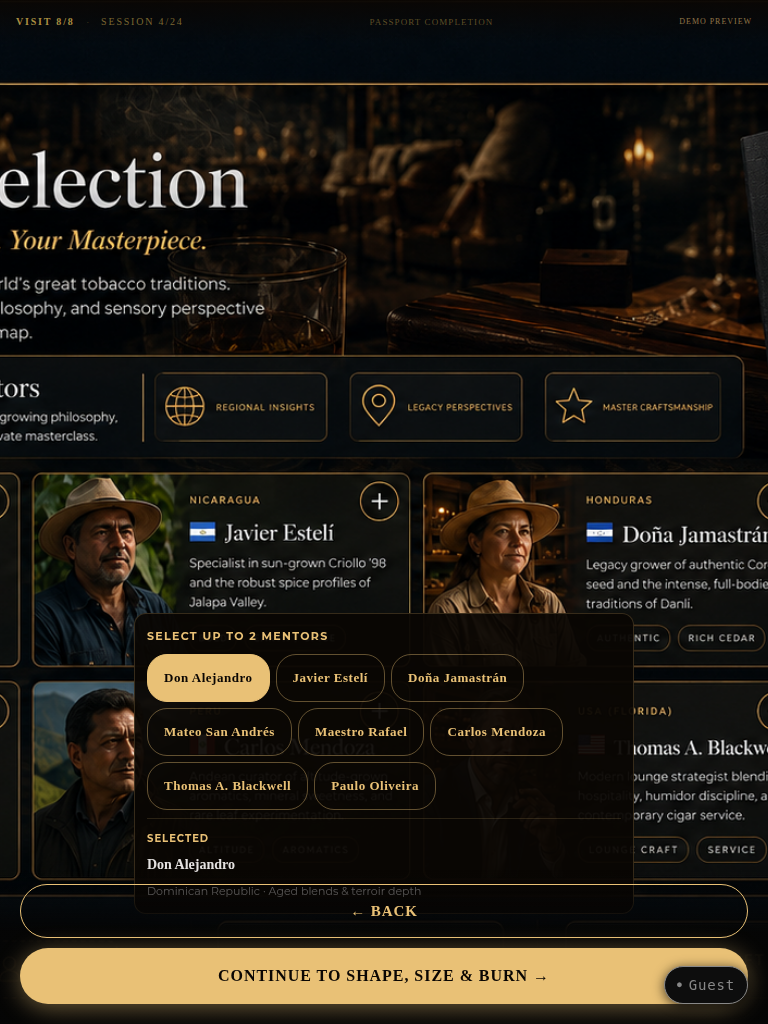
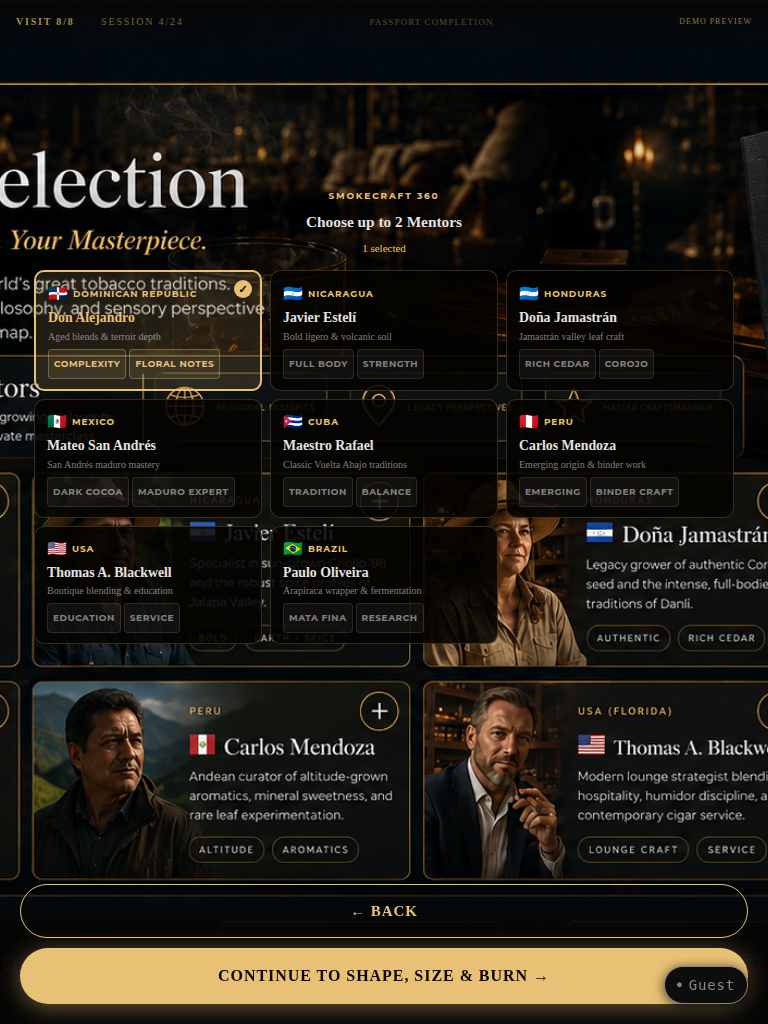
fix(smokecraft): correct remaining Vercel visual defects
Identity: swap IDENTY.png (form baked into artwork causing double-form on
desktop) for clean discover-profile-bg.jpg — single React form, approved
photography background, portrait artwork visible, no duplicate UI

Mentor: replace floating chip-selector box with interactive React card grid
overlaid on MENTOR SELECTION1.png; each card shows flag, origin, name,
expertise, tags; selected card receives gold border + checkmark; disabled
state when 2 already chosen; Continue gated until ≥1 selected

verify-interactions.mjs: 20/20 passed (mentor card aria-pressed preserved)
final-acceptance.mjs: 84/84 passed | 0 failed | build PASS

Proof: public/proof/vercel-visual-verification/ (8 captures, desktop +
handheld for all 4 priority routes)

Claude-Session: https://claude.ai/code/session_01Ju88KjC4Kc2MVgkLLyid8Z

Changed region(s): [[0.0312, 0.25, 0.9688, 0.875], [0.4062, 0.1875, 0.5938, 0.25]]

diff --git a/src/pages/smokecraft/Mentor.jsx b/src/pages/smokecraft/Mentor.jsx
@@ -7,19 +7,20 @@ import SmokeCraftAssetScreen from '../../components/smokecraft/SmokeCraftAssetSc
 import SmokeCraftNavBar from '../../components/smokecraft/SmokeCraftNavBar.jsx'
 import { SC_ASSETS } from '../../constants/smokecraftAssets.js'
 
-const GOLD = '#E9C176'
-const DARK = '#0a0603'
-const DIM  = 'rgba(229,226,225,0.55)'
+const GOLD   = '#E9C176'
+const DARK   = '#0a0603'
+const DIM    = 'rgba(229,226,225,0.55)'
+const BORDER = 'rgba(233,193,118,0.22)'
 
 const MENTORS = [
-  { id: 'alejandro', name: 'Don Alejandro',       origin: 'Dominican Republic', expertise: 'Aged blends & terroir depth' },
-  { id: 'javier',    name: 'Javier Estelí',        origin: 'Nicaragua',          expertise: 'Bold ligero & volcanic soil' },
-  { id: 'jamastrán', name: 'Doña Jamastrán',       origin: 'Honduras',           expertise: 'Jamastrán valley leaf craft' },
-  { id: 'mateo',     name: 'Mateo San Andrés',     origin: 'Mexico',             expertise: 'San Andrés maduro mastery' },
-  { id: 'rafael',    name: 'Maestro Rafael',        origin: 'Cuba',               expertise: 'Classic Vuelta Abajo traditions' },
-  { id: 'carlos',    name: 'Carlos Mendoza',        origin: 'Peru',               expertise: 'Emerging origin & binder work' },
-  { id: 'blackwell', name: 'Thomas A. Blackwell',  origin: 'USA',                expertise: 'Boutique blending & education' },
-  { id: 'paulo',     name: 'Paulo Oliveira',        origin: 'Brazil',             expertise: 'Arapiraca wrapper & fermentation' },
+  { id: 'alejandro', name: 'Don Alejandro',      origin: 'Dominican Republic', flag: '🇩🇴', expertise: 'Aged blends & terroir depth',        tags: ['Complexity', 'Floral Notes'] },
+  { id: 'javier',    name: 'Javier Estelí',       origin: 'Nicaragua',          flag: '🇳🇮', expertise: 'Bold ligero & volcanic soil',         tags: ['Full Body', 'Strength'] },
+  { id: 'jamastrán', name: 'Doña Jamastrán',      origin: 'Honduras',           flag: '🇭🇳', expertise: 'Jamastrán valley leaf craft',         tags: ['Rich Cedar', 'Corojo'] },
+  { id: 'mateo',     name: 'Mateo San Andrés',    origin: 'Mexico',             flag: '🇲🇽', expertise: 'San Andrés maduro mastery',           tags: ['Dark Cocoa', 'Maduro Expert'] },
+  { id: 'rafael',    name: 'Maestro Rafael',       origin: 'Cuba',               flag: '🇨🇺', expertise: 'Classic Vuelta Abajo traditions',    tags: ['Tradition', 'Balance'] },
+  { id: 'carlos',    name: 'Carlos Mendoza',       origin: 'Peru',               flag: '🇵🇪', expertise: 'Emerging origin & binder work',      tags: ['Emerging', 'Binder Craft'] },
+  { id: 'blackwell', name: 'Thomas A. Blackwell', origin: 'USA',                flag: '🇺🇸', expertise: 'Boutique blending & education',      tags: ['Education', 'Service'] },
+  { id: 'paulo',     name: 'Paulo Oliveira',       origin: 'Brazil',             flag: '🇧🇷', expertise: 'Arapiraca wrapper & fermentation',   tags: ['Mata Fina', 'Research'] },
 ]
 
 export default function Mentor() {
@@ -27,7 +28,6 @@ export default function Mentor() {
   const { journey, setMentor } = useSmokeCraftJourney()
   const navigate = useNavigate()
 
-  // Restore from journey state
   const [selected, setSelected] = useState(() => {
     const saved = journey.mentor
     if (!saved) return []
@@ -35,11 +35,9 @@ export default function Mentor() {
     return [saved.id]
   })
 
-  // Persist to journey state whenever selection changes
   useEffect(() => {
     const mentors = MENTORS.filter(m => selected.includes(m.id))
     setMentor(mentors.length ? mentors : null)
-    // Also write primary to GuestSessionContext
     if (mentors.length) setSelectedMentor(mentors[0].id, mentors[0].origin)
   }, [selected, setMentor, setSelectedMentor])
 
@@ -57,8 +55,6 @@ export default function Mentor() {
     navigate('/smokecraft/format')
   }
 
-  const primaryMentor = MENTORS.find(m => selected[0] === m.id)
-
   return (
     <>
       <SmokeCraftAssetScreen
@@ -67,90 +63,131 @@ export default function Mentor() {
         classification="DECORATIVE_BACKGROUND"
       />
 
+      {/* Scrollable card grid — positioned below the upper branding area of the image */}
       <div style={{
         position: 'fixed',
-        bottom: 110, left: 0, right: 0,
+        top: 'clamp(140px, 18vh, 200px)',
+        bottom: 110,
+        left: 0,
+        right: 0,
         zIndex: 400,
-        padding: '0 16px',
+        overflowY: 'auto',
+        WebkitOverflowScrolling: 'touch',
+        padding: '0 12px 8px',
         pointerEvents: 'none',
       }}>
         <div style={{
           pointerEvents: 'auto',
-          background: 'rgba(10,6,3,0.94)',
-          border: '1px solid rgba(233,193,118,0.2)',
-          borderRadius: 12,
-          padding: '10px 12px',
-          maxWidth: 500,
+          maxWidth: 700,
           margin: '0 auto',
         }}>
-          <div style={{ fontSize: 11, color: GOLD, fontWeight: 700, letterSpacing: '0.12em', textTransform: 'uppercase', marginBottom: 6 }}>
-            Select up to 2 Mentors
+          {/* Instruction header */}
+          <div style={{
+            textAlign: 'center',
+            marginBottom: 10,
+          }}>
+            <div style={{ fontSize: 9, fontWeight: 700, color: GOLD, letterSpacing: '0.2em', textTransform: 'uppercase', marginBottom: 2 }}>
+              SmokeCraft 360
+            </div>
+            <div style={{ fontSize: 'clamp(13px,2vw,16px)', fontFamily: 'Georgia, serif', color: '#e5e2e1', fontWeight: 700 }}>
+              Choose up to 2 Mentors
+            </div>
+            {selected.length > 0 && (
+              <div style={{ fontSize: 11, color: GOLD, marginTop: 2, fontFamily: 'Georgia, serif' }}>
+                {selected.length === 1 ? '1 selected' : '2 selected — maximum reached'}
+              </div>
+            )}
           </div>
 
-          <div style={{ display: 'flex', flexWrap: 'wrap', gap: 6, marginBottom: 8 }}>
+          {/* 2-column card grid */}
+          <div style={{
+            display: 'grid',
+            gridTemplateColumns: 'repeat(auto-fill, minmax(clamp(140px,28vw,200px), 1fr))',
+            gap: 8,
+          }}>
             {MENTORS.map(m => {
               const active = selected.includes(m.id)
+              const maxed = selected.length >= 2 && !active
               return (
                 <button
                   key={m.id}
                   type="button"
                   aria-pressed={active}
-                  onClick={() => toggle(m.id)}
+                  onClick={() => !maxed && toggle(m.id)}
                   style={{
-                    background: active ? GOLD : 'transparent',
-                    color: active ? DARK : GOLD,
-                    border: `1px solid ${active ? GOLD : 'rgba(233,193,118,0.4)'}`,
-                    borderRadius: 20,
-                    padding: '11px 16px',
-                    minHeight: 44,
-                    fontSize: 13,
-                    fontWeight: 600,
-                    fontFamily: 'Georgia, serif',
-                    cursor: 'pointer',
-                    letterSpacing: '0.04em',
+                    background: active
+                      ? 'rgba(233,193,118,0.14)'
+                      : 'rgba(5,3,1,0.88)',
+                    border: `${active ? 2 : 1}px solid ${active ? GOLD : BORDER}`,
+                    borderRadius: 10,
+                    padding: '10px 12px',
+                    textAlign: 'left',
+                    cursor: maxed ? 'not-allowed' : 'pointer',
+                    opacity: maxed ? 0.45 : 1,
+                    touchAction: 'manipulation',
+                    position: 'relative',
+                    transition: 'border-color 0.15s, background 0.15s',
+                    minHeight: 80,
                   }}
                 >
-                  {m.name}
+                  {/* Selected indicator */}
+                  {active && (
+                    <div style={{
+                      position: 'absolute',
+                      top: 8, right: 8,
+                      width: 18, height: 18,
+                      borderRadius: '50%',
+                      background: GOLD,
+                      display: 'flex', alignItems: 'center', justifyContent: 'center',
+                      fontSize: 11, color: DARK, fontWeight: 800,
+                    }}>
+                      ✓
+                    </div>
+                  )}
+
+                  <div style={{ display: 'flex', alignItems: 'center', gap: 5, marginBottom: 4 }}>
+                    <span style={{ fontSize: 16 }}>{m.flag}</span>
+                    <span style={{ fontSize: 9, color: GOLD, fontWeight: 700, letterSpacing: '0.1em', textTransform: 'uppercase' }}>
+                      {m.origin}
+                    </span>
+                  </div>
+                  <div style={{
+                    fontSize: 'clamp(12px,1.8vw,14px)',
+                    fontFamily: 'Georgia, serif',
+                    fontWeight: 700,
+                    color: active ? GOLD : '#e5e2e1',
+                    marginBottom: 3,
+                    lineHeight: 1.2,
+                  }}>
+                    {m.name}
+                  </div>
+                  <div style={{ fontSize: 10, color: DIM, fontFamily: 'Georgia, serif', lineHeight: 1.4, marginBottom: 5 }}>
+                    {m.expertise}
+                  </div>
+                  <div style={{ display: 'flex', flexWrap: 'wrap', gap: 3 }}>
+                    {m.tags.map(t => (
+                      <span key={t} style={{
+                        fontSize: 9, fontWeight: 700, letterSpacing: '0.06em',
+                        textTransform: 'uppercase',
+                        color: active ? GOLD : DIM,
+                        background: active ? 'rgba(233,193,118,0.1)' : 'rgba(229,226,225,0.06)',
+                        border: `1px solid ${active ? 'rgba(233,193,118,0.35)' : 'rgba(229,226,225,0.12)'}`,
+                        borderRadius: 4,
+                        padding: '2px 5px',
+                      }}>{t}</span>
+                    ))}
+                  </div>
                 </button>
               )
             })}
           </div>
-
-          {/* Live selection summary */}
-          {primaryMentor && (
-            <div style={{
-              borderTop: '1px solid rgba(233,193,118,0.15)',
-              paddingTop: 8,
-              display: 'flex', flexDirection: 'column', gap: 2,
-            }}>
-              <div style={{ fontSize: 10, color: GOLD, fontWeight: 700, letterSpacing: '0.1em', textTransform: 'uppercase' }}>
-                Selected
-              </div>
-              <div style={{ fontSize: 14, color: '#e5e2e1', fontFamily: 'Georgia, serif', fontWeight: 600 }}>
-                {primaryMentor.name}
-              </div>
-              <div style={{ fontSize: 11, color: DIM }}>{primaryMentor.origin} · {primaryMentor.expertise}</div>
-              {selected.length === 2 && (() => {
-                const m2 = MENTORS.find(m => m.id === selected[1])
-                return m2 ? (
-                  <div style={{ fontSize: 11, color: DIM, marginTop: 2 }}>
-                    + {m2.name} · {m2.origin}
-                  </div>
-                ) : null
-              })()}
-            </div>
-          )}
-          {!primaryMentor && (
-            <div style={{ fontSize: 11, color: DIM, paddingTop: 4 }}>
-              No mentor selected — choose one to continue.
-            </div>
-          )}
         </div>
       </div>
 
       <SmokeCraftNavBar
         primary="Continue to Shape, Size & Burn →"
         onPrimary={handleContinue}
+        primaryDisabled={selected.length === 0}
         secondary="← Back"
         onSecondary={() => navigate(-1)}
       />

diff --git a/src/pages/smokecraft/Identity.jsx b/src/pages/smokecraft/Identity.jsx
@@ -119,9 +119,9 @@ export default function Identity() {
   return (
     <>
       <SmokeCraftAssetScreen
-        src="/assets/smokecraft/IDENTY.png"
+        src="/assets/smokecraft/cropped/discover-profile-bg.jpg"
         alt="SmokeCraft Identity — Let's Get To Know You"
-        classification="LIVE_REACT_PAGE_ARTWORK"
+        classification="DECORATIVE_BACKGROUND"
       />
 
       {/* Compact form panel — sits above the NavBar, does not cover the portrait or upper artwork */}
